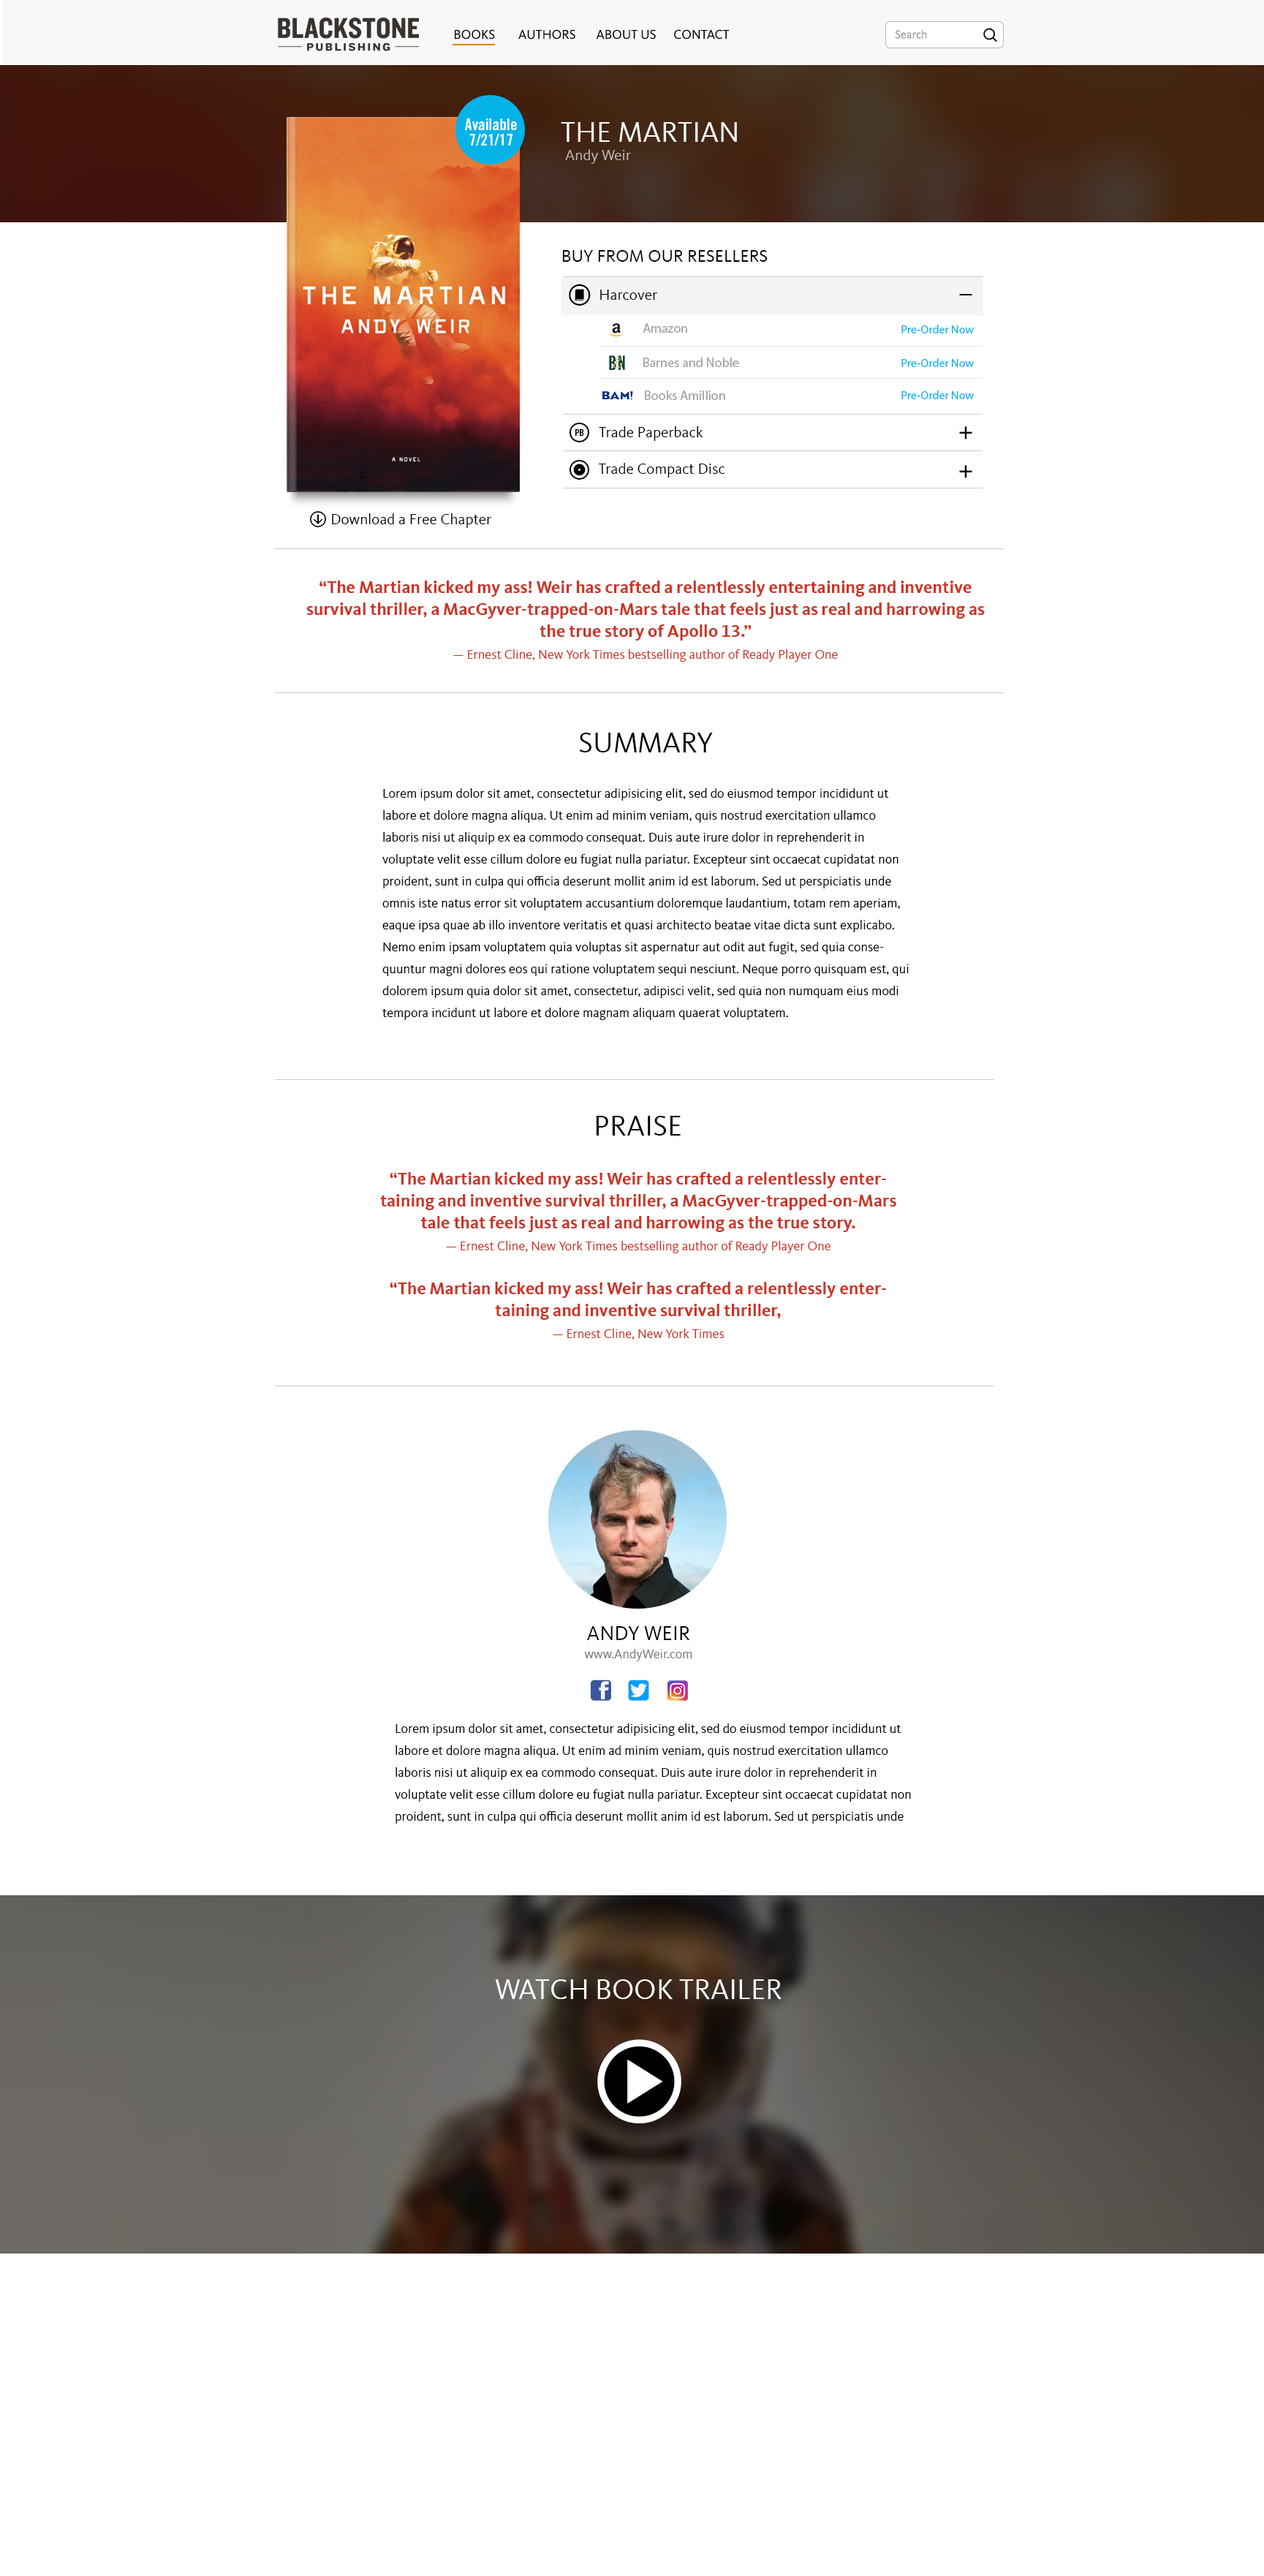
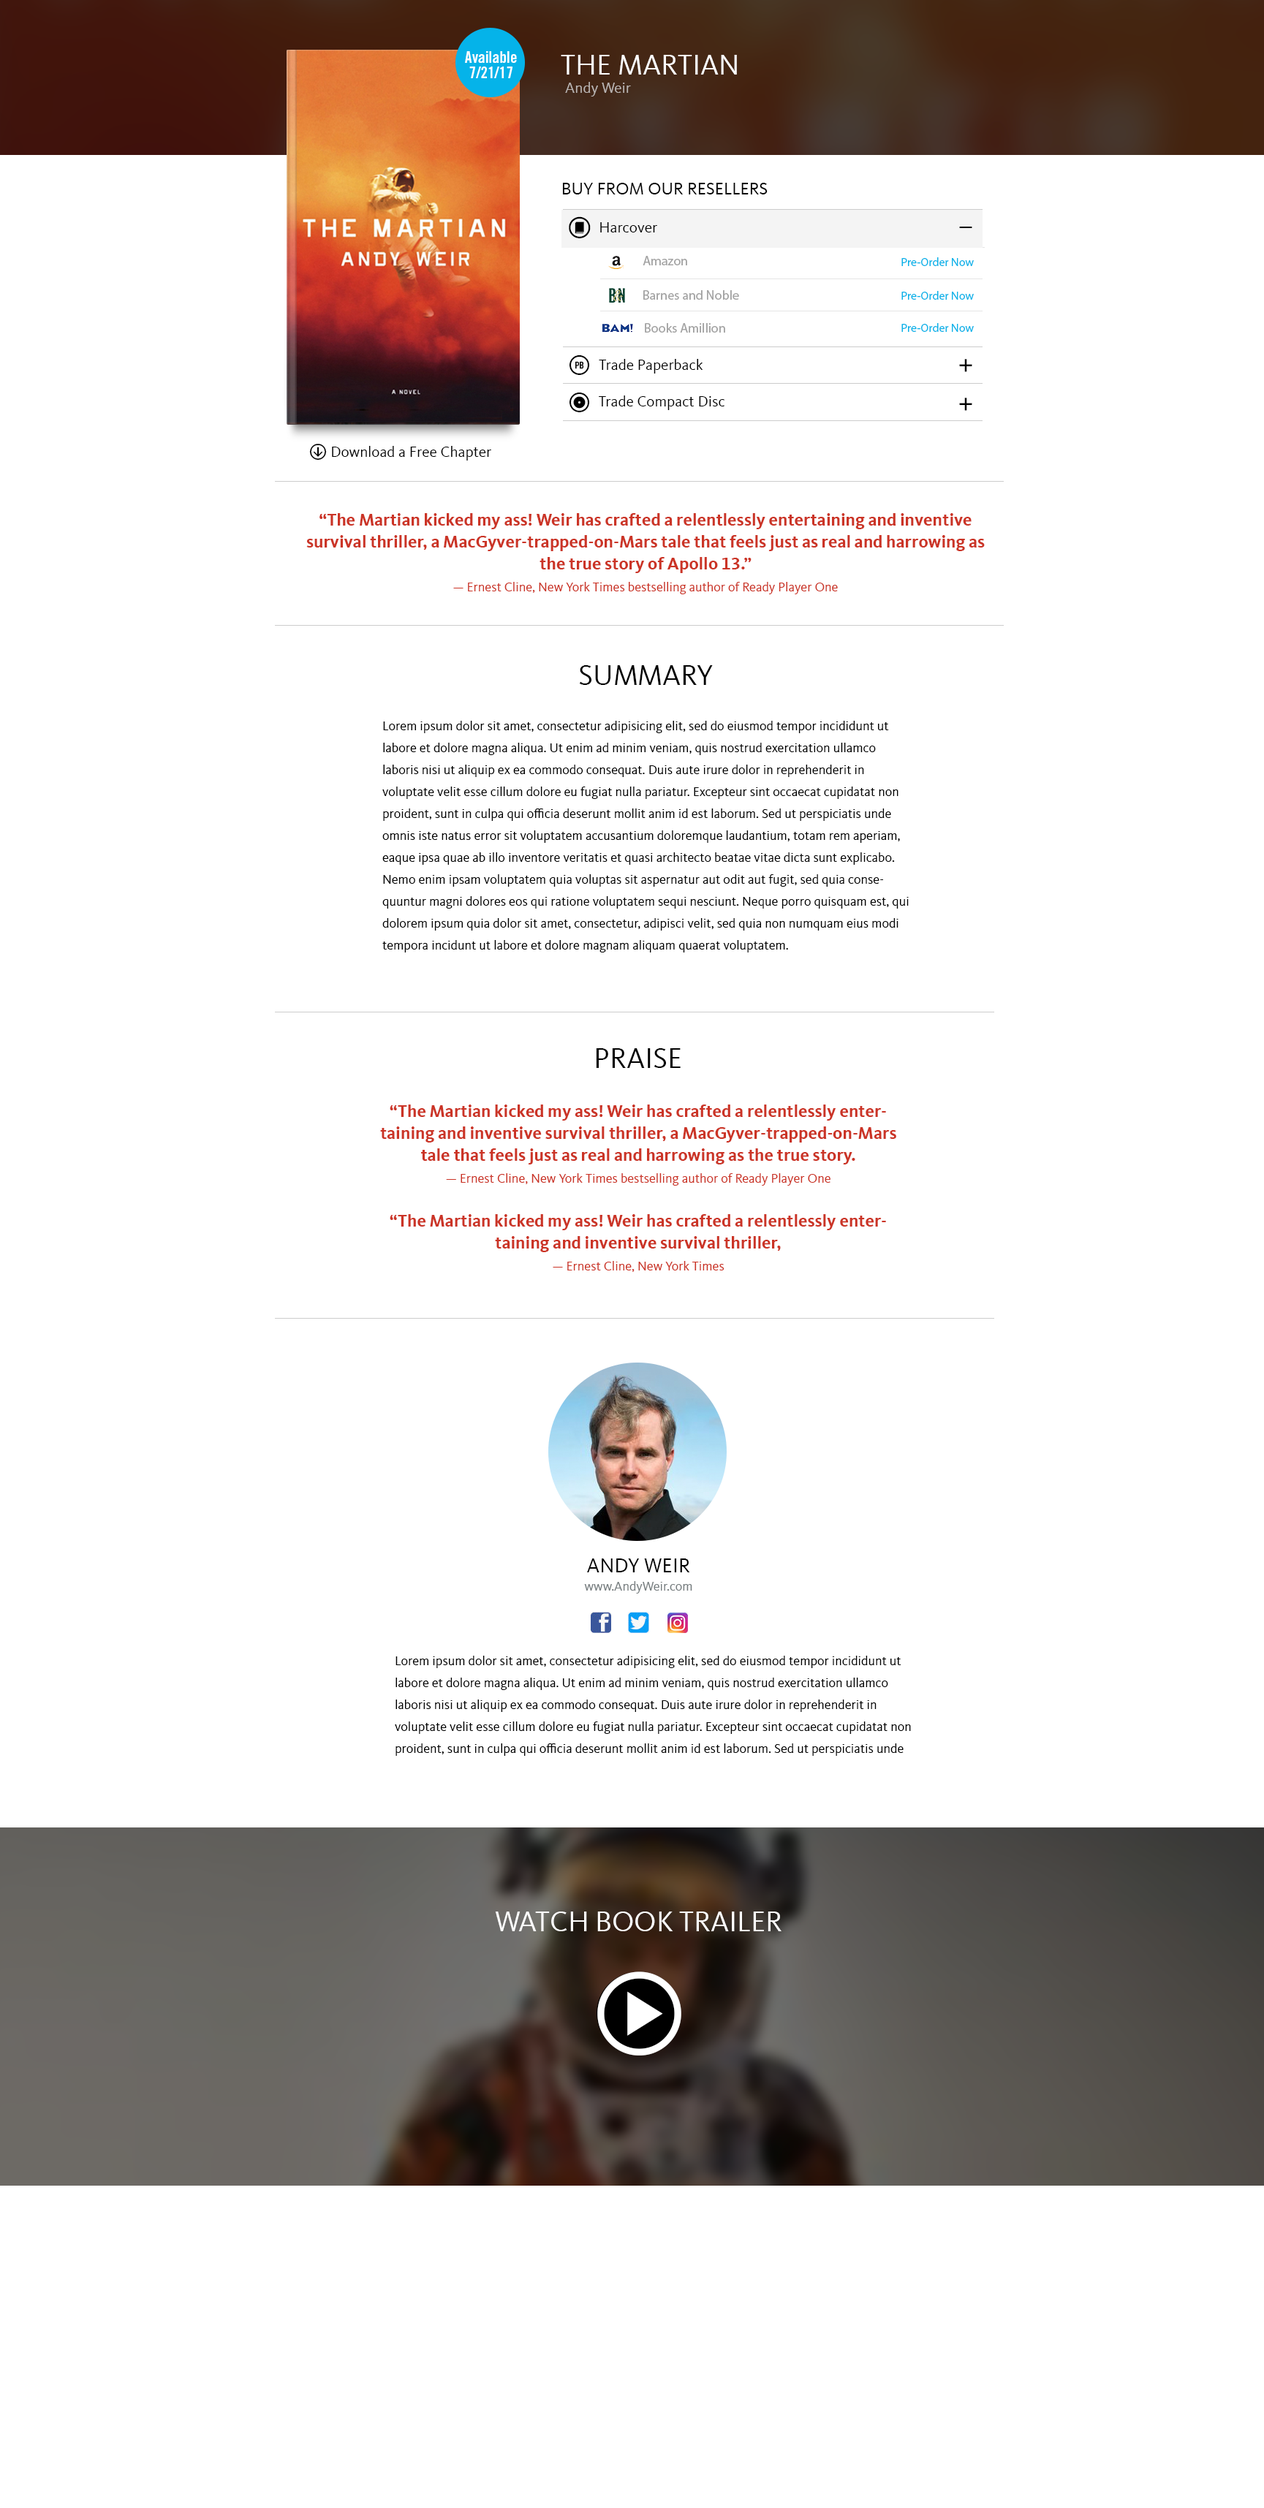
update mockup to remove header update instructions to clarify links update readme for delivery instructions

Changed region(s): [[0.0, 0.0, 1.0, 0.8732], [0.5934, 0.8108, 0.6559, 0.842], [0.3436, 0.8108, 0.406, 0.842]]

diff --git a/README.md b/README.md
@@ -6,5 +6,6 @@ What we need from you is to replicate the <a href="/mockup.png">mockup.png</a> i
 
   You'll need to implement the icomoon font to create some of the icons you'll see in the mockup, you'll find icomoon specific instructions inside the icomoon zip
   
-  Don't worry about submitting the search form, just make sure it can be clicked into. Also please don't worry about where the header nav links go, you can just send them to example.com or anywhere else.
+  Don't worry about links or where they go to, just set them all to link to www.example.com
   
+  When complete, please zip your code along with a short write up of how you addressed the task. Send this to your contact at Blackstone. We prefer google drive for the large files, but other services can also work.
